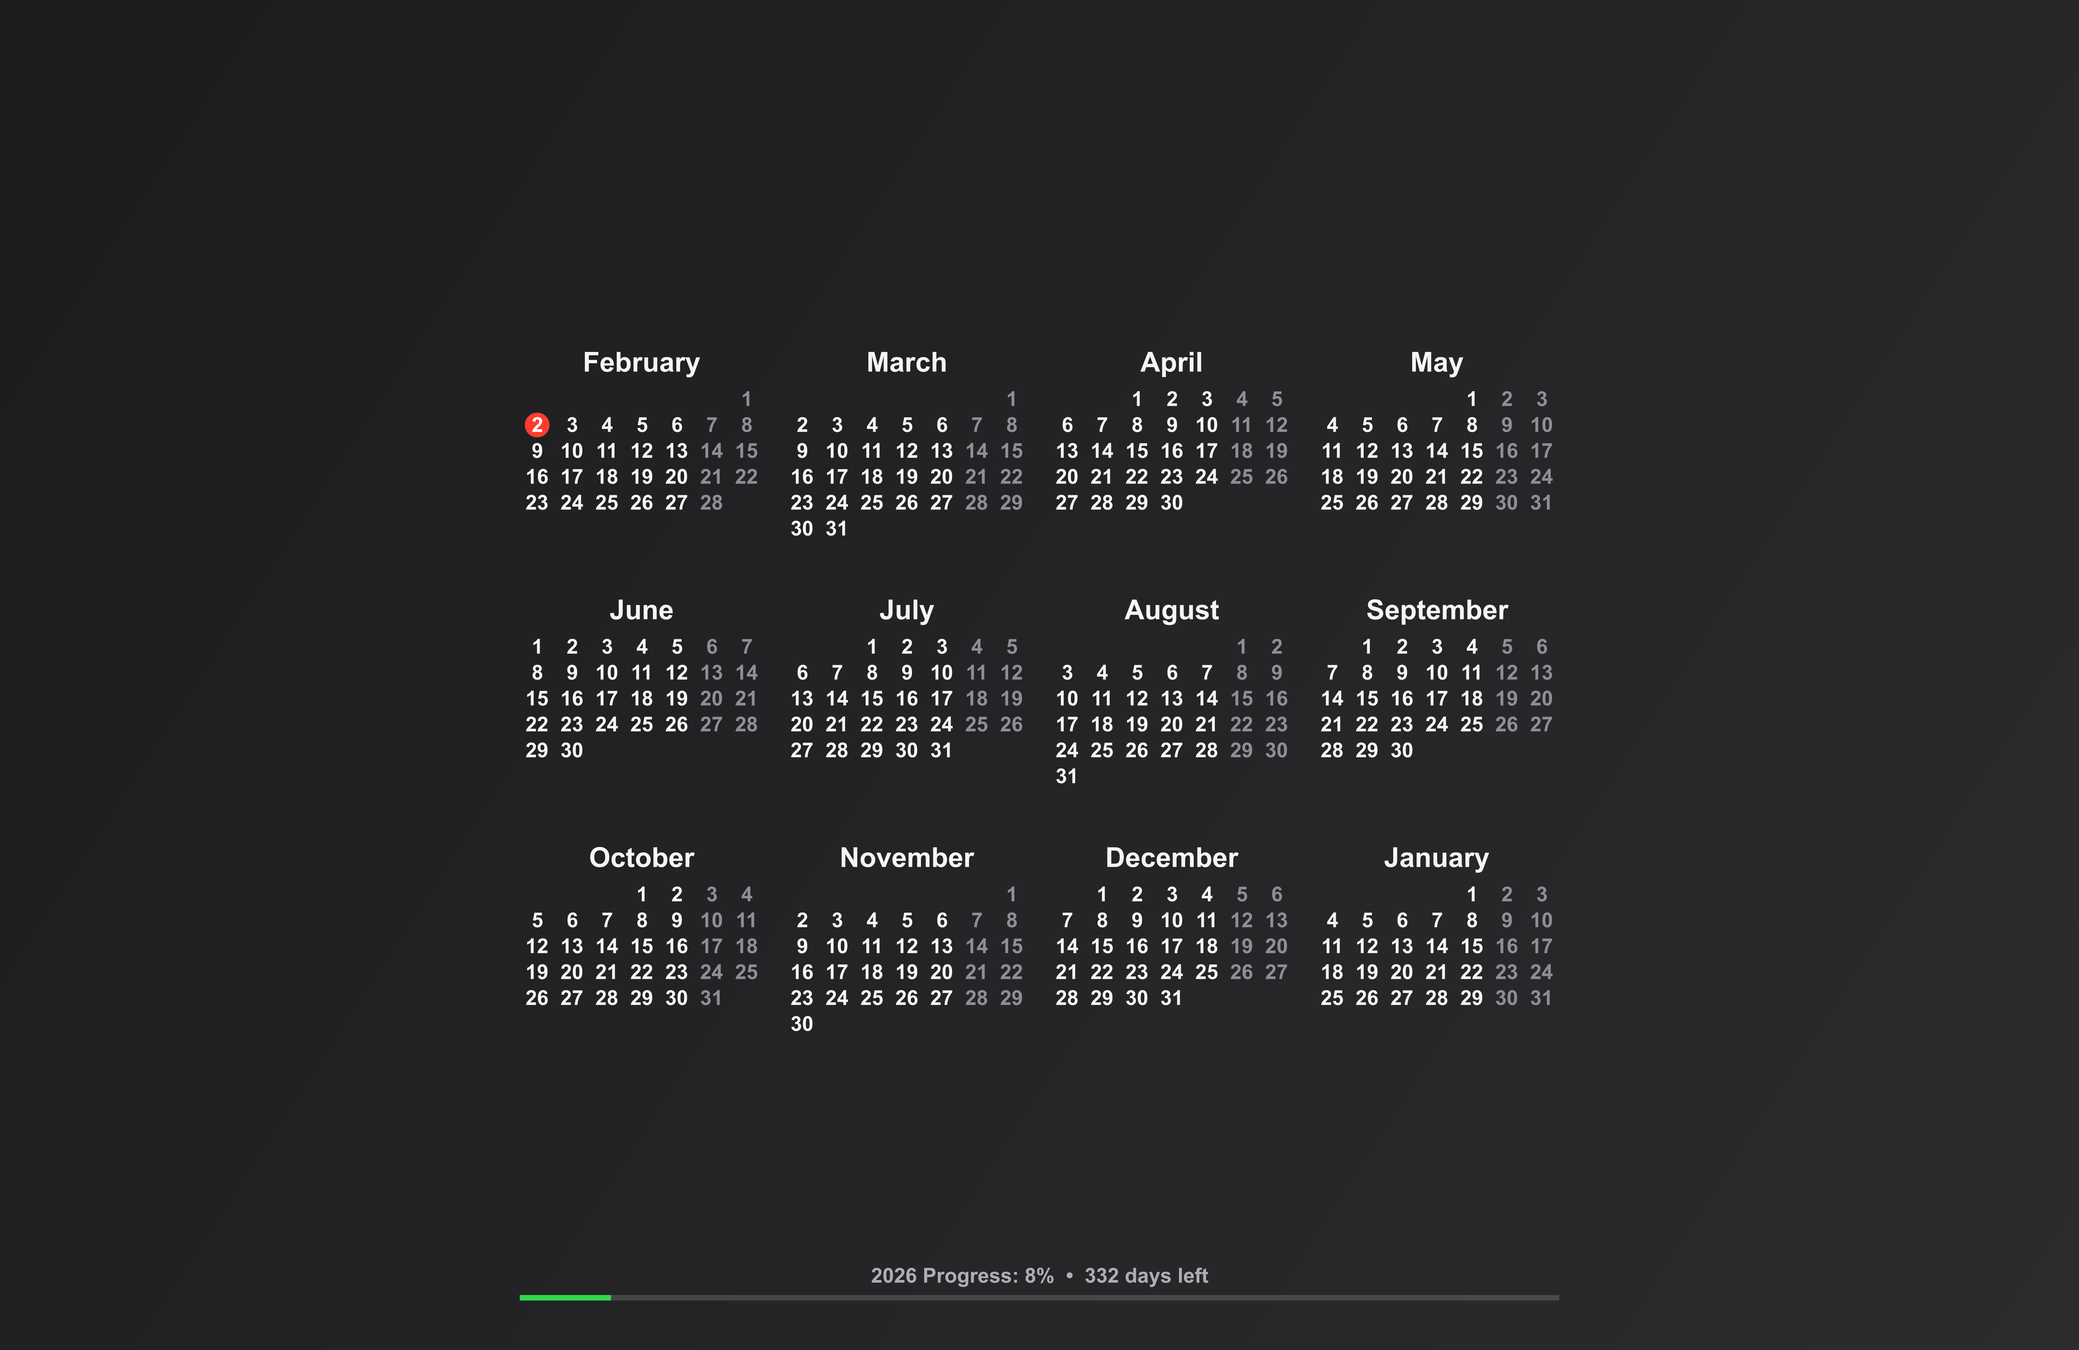
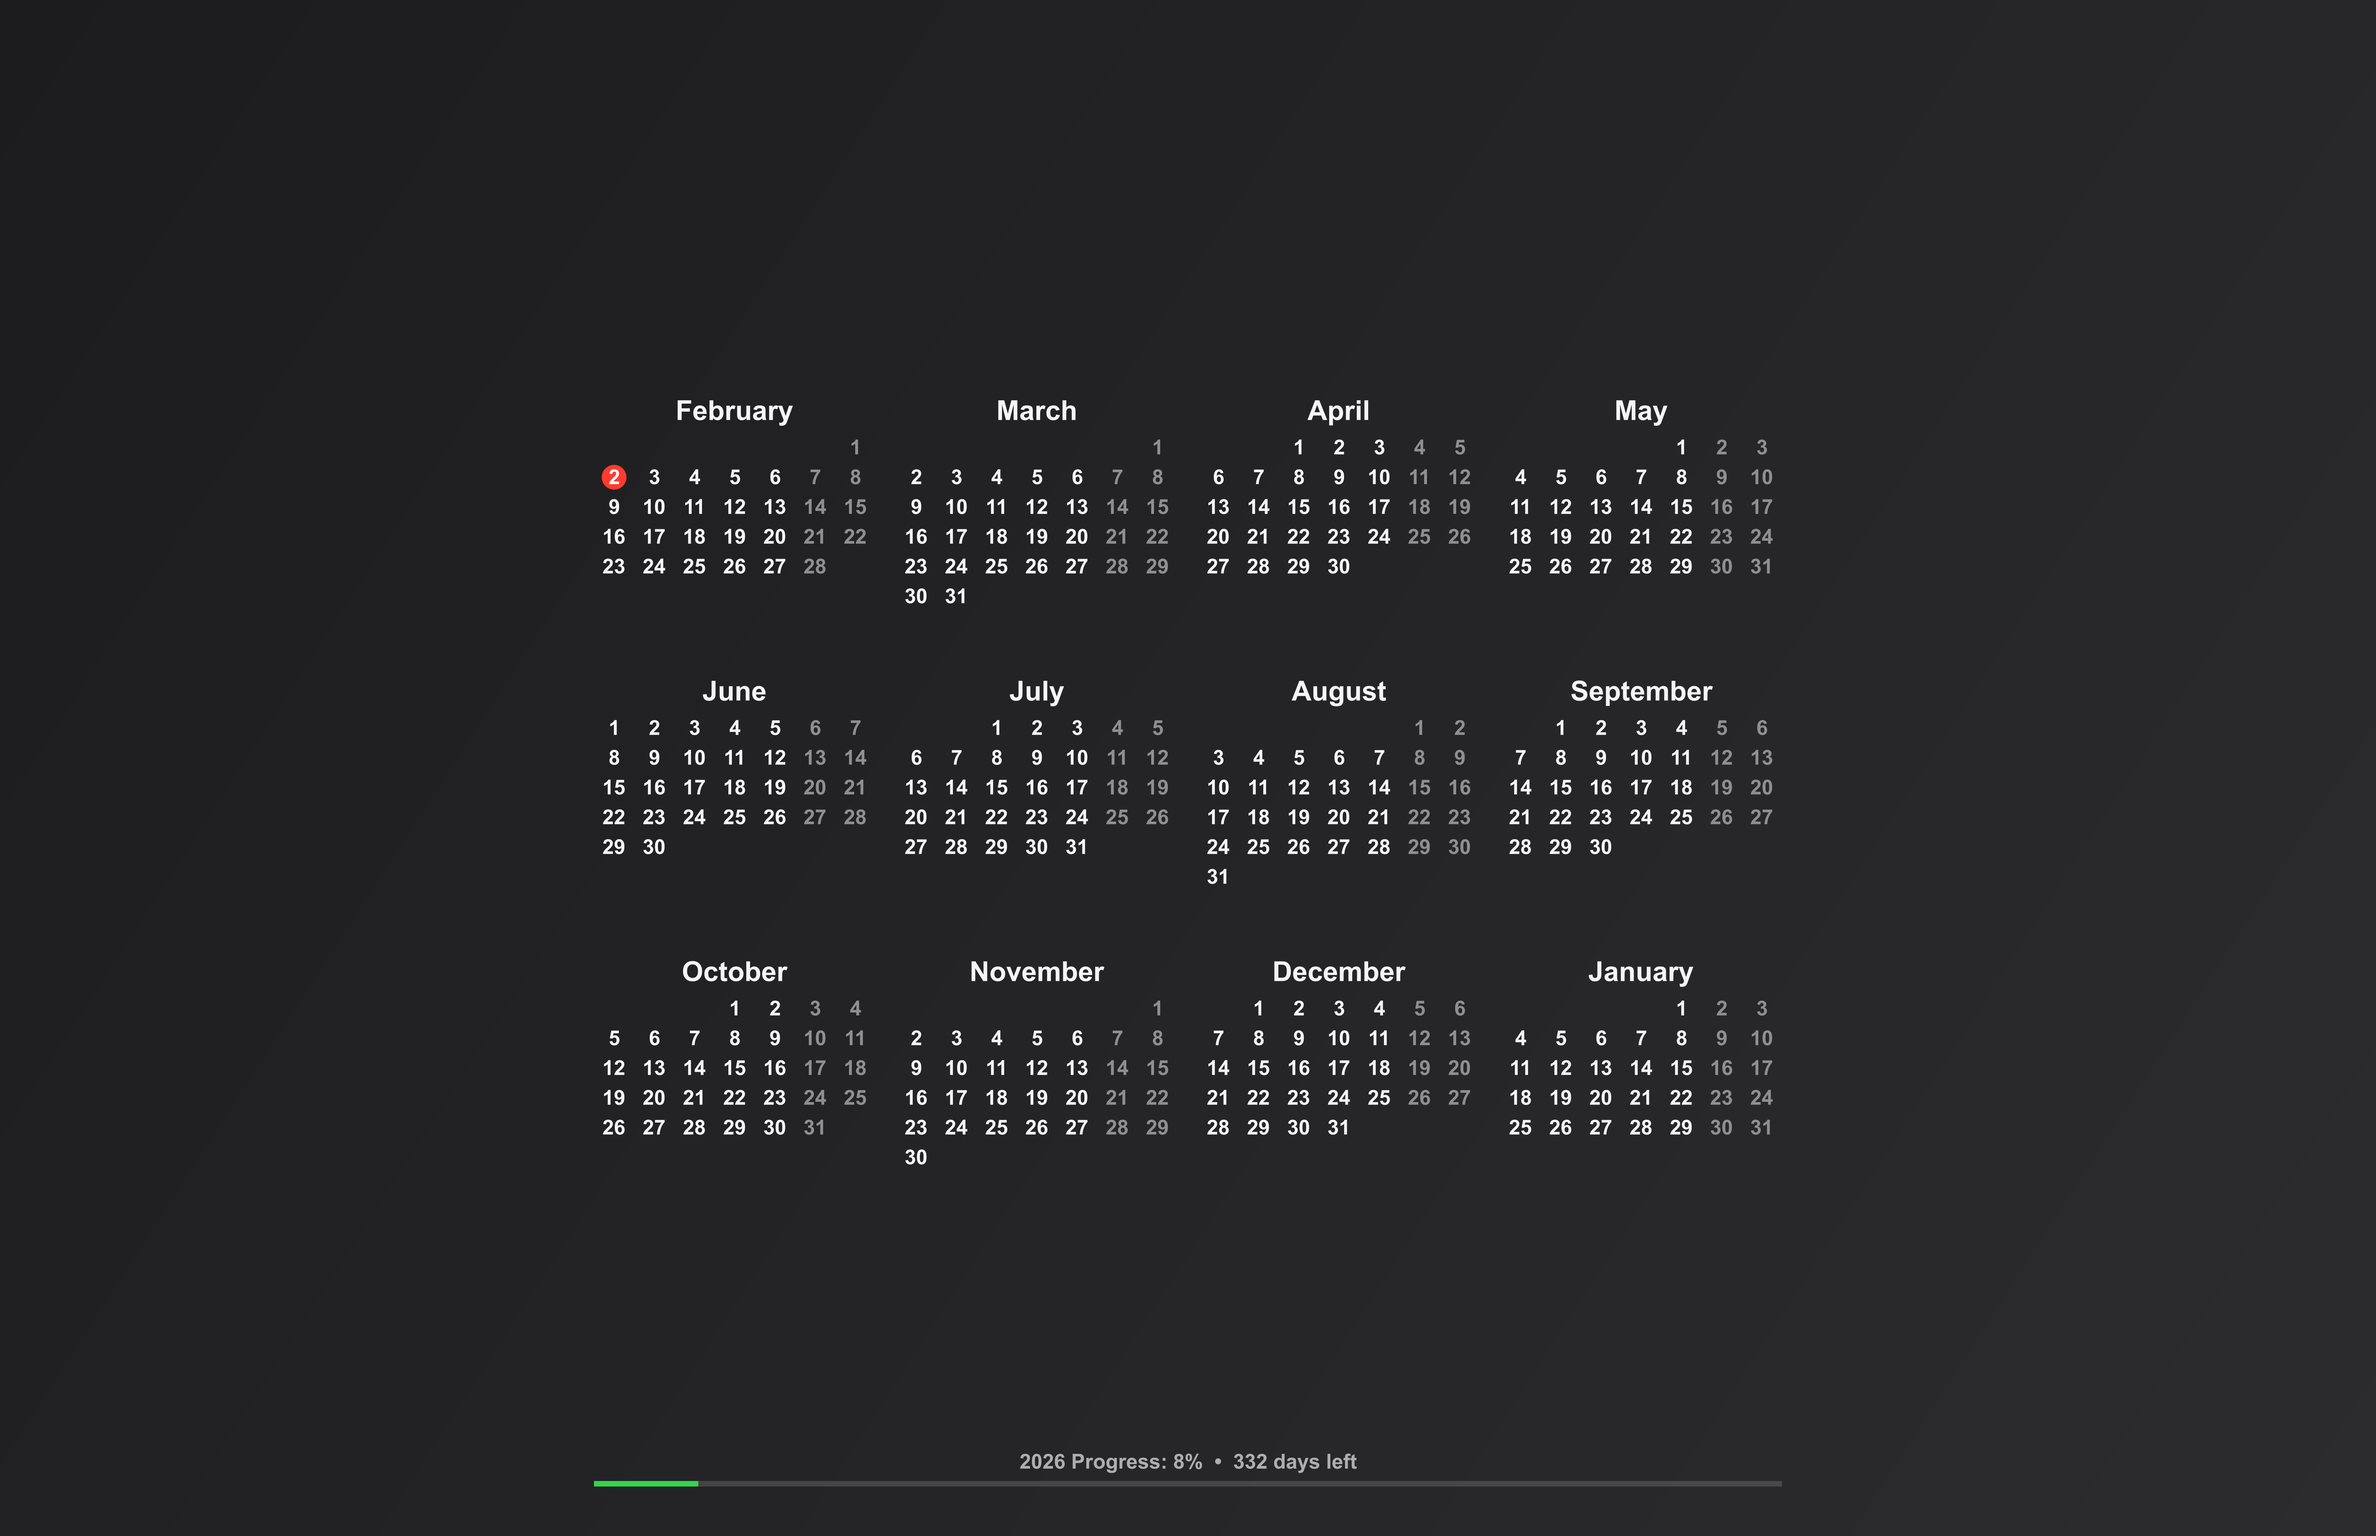
FIx osascript command

diff --git a/mac-wallpaper.js b/mac-wallpaper.js
@@ -9,8 +9,9 @@
 
 const CONFIG = {
   // Screen dimensions - width and height of the wallpaper in pixels (MacBook Pro 14/16 Retina)
-  WIDTH: 3024,
-  HEIGHT: 1964,
+  // UPDATED: Set to your specific screen resolution to avoid blur
+  WIDTH: 3456,
+  HEIGHT: 2234,
 
   // Background gradient colors - start and end colors for the dark gradient background
   BG_COLOR_START: "#1c1c1e",
@@ -163,7 +164,7 @@ function setWallpaper(){
   fs.writeFileSync(lockscreenPath, canvas.toBuffer("image/png"));
 
   // Set lock screen wallpaper
-  execSync(`osascript -e 'tell application "System Events" to set picture of every desktop to "${lockscreenPath}"'`);
+  execSync(`osascript -e 'tell application "System Events" to set picture of every desktop to "${lockscreenPath}"' && killall Dock`);
   console.log("Lock screen wallpaper set successfully ✅");
 }
 
